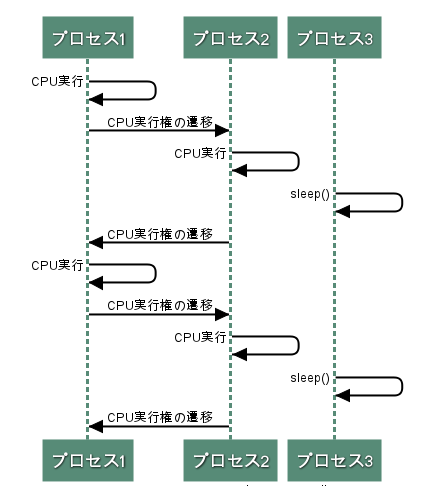
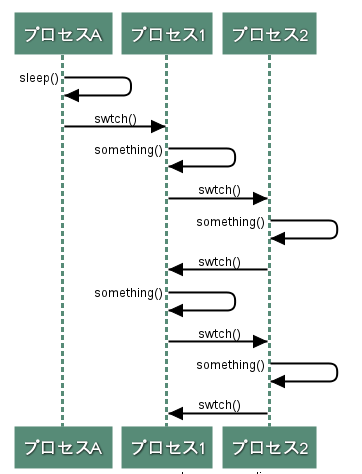
fix

Changed region(s): [[0.0304, 0.0, 0.942, 1.0], [0.6381, 0.6203, 0.6685, 0.6498]]

diff --git a/docs/unix_v6/process/switch_process.md b/docs/unix_v6/process/switch_process.md
@@ -2,6 +2,11 @@
 
 * 実行プロセスがカーネルのsleep()を実行すると`実行プロセスが休眠状態になって処理が中断された後に、swtch()が呼ばれて実行プロセスが切り替わる`
 
+## もっと雑にこういうことやってる
+* sleep()を実行するとプロセスの切り替えが起きている
+  * 自身を休眠状態にしてプロセスを切り替える
+    * 次の実行するプロセスは優先度と実行可能状態の状態のプロセスから選ぶ
+    * プロセスを切り替える時は、コンテキストスイッチ(レジスタとメモリ領域の引っ越し)が起きている
 ![switch](../images/swtch.png)
 
 * カーネルのsleep()が実行されるのは次の場合
@@ -11,11 +16,12 @@
 * 実行状態になれるのは、実行可能状態のプロセスのみ
   * 休眠状態になったプロセスは、休眠状態が解消されるまでは再度実行状態になることはない
 
+### 休眠状態になったプロセスは、休眠状態が解消されるまでは再度実行状態になることはないの図
 
 ![switch](../images/process_status.png)
 
 ## プロセスの状態を表す値
-* プロセスの状態は、proc.p_statで表される
+* プロセスの状態は、`proc.p_stat` で表される
   * SRUNは実行可能状態、SSLEEPはSWAITは休眠状態
 * sleep()は実行中のプロセスをSSLEEPまたはSWAITに設定する
   * wakeup()は対象のプロセスをRUMに設定する
@@ -24,7 +30,7 @@
 * swtch()は、実行するプロセスを選択する
   * proc[]を舐めて、次の条件を満たしたプロセスを実行するプロセスとして選択する
     * 実行可能状態である
-    * 実行優先度が最も高い(proc.p_priが最も小さい)
+    * 実行優先度が最も高い(`proc.p_pri`が最も小さい)
 * 特定のプロセスを必ず実行する、ということはできない
 * 実行時間が長いほど実行優先度が低くなっていく
   * 実行優先度で選択されるプロセスが決まるので、setpri()中の実行優先度計算式が実行プロセスの選択を決定しているといえる
@@ -34,24 +40,29 @@
 * 実行プロセスが中出されるときには、user構造体に現在の実行状態を保存する。
 * 中断していたプロセスが再度実行されるときには、user構造帯から実行状態を復元する
   * これをコンテキストスイッチと呼ぶ
-* アセンブリで搔かれたsavu(),retu(), aretu()がコンテキストスイッチの中核をなす関数
+* アセンブリで搔かれたsavu(), retu(), aretu()がコンテキストスイッチの中核をなす関数
   * savu()がuser構造帯への保存,retu(), aretu()がuser構造帯からの復元を行う
 
 ## waitシステムコール
 * ユーザプログラムからwaitシステムコールが発行されると、そのプロセスの実行が中断され、別のプロセスへと制御が移る
 * waitシステムコールには、子プロセスの処理完了を待つために実行プロセスの中断すること以外にも、終了した子プロセスの後始末を行うという役割がある
+  * 子プロセスがexitするとゾンビ状態になって親がwaitするまでproc[]に存在し続ける. waitするとproc[]から消える
 ```shell
 $ sleep 2 &; wait && echo done
 ```
 
 ## sleep()
-* sleep()は実行中のプロセスを休眠状態にする
-  * その後、swtch()を実行して実行プロセスを切り替える
 * sleep()は引数chan, priを受ける
   * chanには変数などのアドレスが渡され、その値は実行プロセスのproc.p_wchanにセットされます。
   * wchanは waiting channelを意味し、`このプロセスはproc.p_wchanで示される資源を持っている`ということを表す
-* プロセスの状態を休眠状態から実行可能状態へと変更する、wakeup()はsleep()と同様に変数などのアドレスを引数として受け、proc.p_wchanを順に調べ、引数と一致するプロセスを実行可能状態にする
+
+### sleep()のやっていること
+* sleep()は実行中のプロセスを休眠状態にする
+  * その後、swtch()を実行して実行プロセスを切り替える
+* プロセスの状態を休眠状態から実行可能状態へと変更するwakeup()を実行する
+  * wakeup()は、sleep()と同様に変数などのアドレスを引数として受け、proc.p_wchanを順に調べ、引数と一致するプロセスを実行可能状態にする
   * sleep()とwakeup()を使って、複数プロセス間で資源を持ち合う処理を行なっている
+* wakeup()で休眠状態プロセスを起こした(実行可能状態にした)後にswtch()でプロセスを切り替える
 
 #### ken/slp.c
 * priは、実行優先度を表し、実行プロセスのproc.p_priにセットされる
@@ -73,13 +84,13 @@ sleep(chan, pri) { // waiting_chanenel: 持っている資源アドレス, pri: 
   rp = u.u_procp;
 
   if(pri >= 0) {
-    if(issig()) { goto psig; }
+    if(issig()) { goto psig; } // シグナルを受けているならgoto psig
     spl6();             // 下記3項目が書き換えられない(割り込みされない)ように6に引き上げる
     rp->p_wchan = chan; // 割り込み処理中に実行されるwakeup()から書き換えられる可能性がある
-    rp->p_stat = SWAIT; // 同じ休眠状態だけどシグナル処理を行う
+    rp->p_stat = SWAIT; // 同じ休眠状態だけどシグナル処理を行えるSWAIT
     rp->p_pri = pri;
     spl0();
-    if(runin != 0) { // スワップアウト対象がいないことを示すruninフラグ
+    if(runin != 0) { // スワップアウト対象がいないことを示すruninフラグ. いるなら真
       runin = 0;
       wakeup(&runin);
     }
@@ -103,3 +114,145 @@ psig:
 ```
 
 ## swtch()
+* 実行プロセスの切り替えをお子なる関数
+* proc[]を調べて、実行可能状態なプロセスのうち、もっとも実行優先度の高いプロセスを選択する
+  * カーネルの処理では、先頭を順番に見ていって条件にあうproc[]を選択する、というパターンが多いが、swtch()では1周する
+*  次に実行するプロセスを決定したあとは、下記手順でプロセスを切り替える
+  * 選択されたプロセスのuser構造帯をuで参照できるようにカーネルAPRを変更
+  * 選択されたプロセスのuser構造帯に保存されているr5, r6の値を復帰
+  * 選択されたプロセスのuser構造帯に保存されているユーザAPRの値を復帰
+* 「fork()で新たに生成されたプロセスはnewproc()から1を返す」というのもこれにより実現している
+
+![switch](../images/retu_savu.png)
+
+```c
+swtch() {
+  static struct proc *p;
+  register i, n;
+  register struct proc *rp;
+  if(p == NULL) { p = &proc[0] }
+  savu(u.u_rsav); // 今のr5, r6の値を現在実行中(中断しようとしている)プロセスのuser.u_rsavに保存する. プロセスが再び実行されるときに値復帰する
+  retu(proc[0].p_addr); // スケジューラプロセスに切り替える. proc[0]はスケジューラ用のシステムプロセス. システム起動時に生成される
+
+loop:
+  // runrun変数は、実行プロセスよりも実行優先度の高いプロセスが存在することを示すフラグ
+  runrun = 0; // これから最も実行優先度の高いプロセスへ切り替えようとしているのでリセットする
+  rp = p;
+  p = NULL;
+  n = 128; // 優先度を一番低くする(小さいと優先度が高い)
+  i = NPROC;
+  // プロセスをすべて調べて次に実行状態にするプロセスを決める
+  do {
+    rp++;
+    if(rp >= &proc[NPROC]) {
+      rp = &proc[0];
+    }
+    // 実行可能状態 & メモリ中に存在している & 優先度が高い(最も小さいproc.p_pri)
+    if(rp->p_stat == SRUN && (rp->p_flag & SLOAD) != 0) {
+      if(rpp->p_pri < n) {
+        n = rp;
+        n = rp->p_pri;
+      }
+    }
+  } while(--i);
+  // 全プロセスを調べたが見つからなかったら、idel()を実行して実行可能状態プロセスが現れるのを待つ
+  // 割り込みの発生によって、idel()が解除される
+  if(p == NULL) {
+    p = rp;
+    idel();
+    goto loop;
+  }
+  rp = p;
+  curpri = n;       // current priority. グローバル変数. 実行中プロセスの実行優先度を保持している
+  retu(rp->p_addr); // 選択されたプロセスのr5, r6を復帰し, またuでuser構造体を参照できるようにカーネルAPRの値を変更する
+  sureg();          // 選択されたプロセスのuser構造体に保存されているAPRをハードウェアのユーザAPRに復元し、ユーザ空間を切り替える. これでスイッチ完了
+
+  if(rp->p_flag & SSWAP) { // SSWAPがたっていたら
+    rp_>p_flag = &~SSWAP;  // SSWAPフラグをクリアして
+    aretu(u.u_ssav);       // user.u_ssavからr5, r6を復帰する
+                           // SSWAPフラグは、スケジューラ以外によってスワップアウト処理が行われると立てられる
+  }
+  return(1);
+}
+```
+* idel()から割り込みが発生する(idol()から抜ける)ケース
+  * ブロックデバイスの読み込み動作完了により割り込みがかかり、その動作を待っていたプロセスが起こされると実行可能状態のプロセスが現れる
+    * = ディスク入出力?
+  * クロックによる割り込みがかかり、ある時間が来たら実行するように指示されたプロセスが起こされる場合もある
+    * シェルのsleepコマンドはこれかな
+* idol()を抜けたあとは、もう一度優先度の高いプロセスを選ぶ処理を行う
+
+## savu(), retu(), aretu()
+* user\[\]とレジスタへの退避と復元を行なっている処理
+* スタックのスタックがでてきたりアセンブラがよくわからないので略
+
+## setpri()
+* setpri() はプロセスの優先度を更新する
+* 実行タイミングは、クロック割り込みやシグナル処理
+  * 定期的に実行優先度が更新されている
+* proc.p_priは低いほうが優先度が高い
+  * 最高値は127
+* proc.p_cpuがそのプロセスが使用したCPUの累積時間で、そのプロセスの実行中にクロック割り込みがかかるとインクリメントされる
+  * ただし、スワップインするときに0にリセットされる
+* `CPUの使用累積時間が長くなると実行優先度が下がる`
+* proc.p_niceはniceシステムコールによって、ユーザから設定される正の値
+  * 実行優先度を下げるための補正値
+* ただし、スーパーユーザは負の値を設定できる
+
+```c
+setpri(up) { // 実行優先度を更新するproc[]エントリ
+  register *pp, p;
+  pp = up;
+  p = (pp->p_cpu & 0377) / 16;
+  p =+ PUSER + pp->p_nice;
+  if(p > 127) { p = 127 }
+
+  if(p > curpri) { // current priority. 不等号は逆. 次のバージョンで修正されているとのこと
+    runrun++;      // runrun は実行プロセスよりも実行優先度の高いプロセスが存在することを表すフラグ
+ }
+  pp->p_pri = p;
+}
+```
+
+## wakeup()
+* wakeup()はproc[]を順番に調べて、引数で指定された資源を持っている休眠状態のプロセスを起こす関数
+
+```c
+wakeup(chan) {
+  register struct proc *p;
+  register c, i;
+  c = chan;
+  p = &proc[0];
+  i = NPROC;
+  do {
+    if(p->p_wchan == c) {
+      setrun(p);
+    }
+    p++;
+  } while(--i);
+}
+```
+
+* proc[]を先頭から順にたどり、引数で洗えられた値と同じproc.p_wchanを持つプロセスに対して、setrun()を実行して実行可能状態にする
+
+## setrun()
+引数で与えられたプロセスを実行可能状態(SRUN)にする
+
+```c
+setrun(p) { // p: 実行可能状態にするproc[]エントリ
+  register struct proc *rp;
+  rp = p;
+  rp->p_wchan = 0; // スリープしている理由がセットされており、これから実行可能状態になるので理由をリセットする
+  rp->p_stat = SRUN;
+  if(rp->p_pri < curpri) { runrun++; }
+  // runoutフラグはスワップインするプロセスがないことを示す
+  // runoutフラグが立っていて、かつ、起こされたプロセスがスワップアウトされた状態ならばスワップインできるプロセスが現れたかもしれないので
+  // runoutフラグをクリアし、スケジューラを起こす(謎)
+  if(runout != 0 && (rp_>p_flag & SLOAD) == 0) {
+    runout = 0;
+    wakeup(&runout);
+  }
+}
+```
+
+完

diff --git a/docs/unix_v6/block_device/1.md b/docs/unix_v6/block_device/1.md
@@ -1,0 +1,55 @@
+# でロックデバイスサブシステム
+## デバイスの種類
+* ブロックデバイス
+   * 処理単位はブロック単位
+   * 高速
+   * 先頭ブロックから順に0, 1, 2...とアドレスが振られている
+   * 大量データ転送に向いている
+     * カーネルのバッファの使用により、キャッシュ、非同期操作、遅延書き込みなどをサポートする
+     * ブロックでバイス上にファイルシステムが構築される
+   * ディスクデバイス
+* キャラクタデバイス
+  * 処理端は文字
+  * アドレスは振られてなくてデータは使い捨て
+  * キューの先頭からしかアクセスできない(シーケンシャルアクセス)
+  * 低速
+  * 少量データ転送に向いている
+  * ラインプリンタ、制御端末
+
+# デバイスドライバ
+* デバイスドライバは、デバイスの操作を行うプログラム
+  * 1デバイスに対して、1デバイスドライバがあることが普通
+* デバイスドライバは、デバイスドライバテーブルで管理されてる
+
+# クラスとデバイス番号
+
+# スペシャルファイル
+* あるデバイスを使用するためには、そのデバイスに対応するスペシャルファイルを作成する必要があります。
+  * システムの管理者がユーザプログラムの/etc/mknodを実行して、スペシャルファイルを作成します。
+  * スペシャルファイルにはデバイスのクラスとデバイス番号が含まれる
+* スペシャルファイルは/devの下に作成し、そのデバイスを表す文字列とマイナー番号を組み合わせた名前にします
+  * たとえば/dev/rk0 というようにします
+* /etc/mknod が成功すると、指定されたディレクトリにスペシャルファイルが追加され、それに他王したinodeが作成される
+  * inodeにはクラスを表すフラグが立ち、inode.i_addr[0]にはデバイス番号が格納される
+* そのスペシャルファイルに対して、open, read, write, closeシステムコールが実行することで、
+  * システムコールハンドラ内でメジャー番号に対応したデバイスドライバが呼び出され、デバイスの操作が行われる
+* ユーザから見ると通常ファイル操作とデバイス操作のインターフェースが共通になっているので、
+  * たとえばユーザプログラムの出力をファイルからラインプリンタに変えたいときにはopenする対象を切り替えるだけですむ
+  * 通常ファイルとデバイスのインタフェースが統一されているのはUNIX V6特徴
+
+## バッファ
+* ブロックデバイスサブシステムは、バッファを用いてブロックデバイスとデータのやりとりを行う
+* バッファには、デバイス番号とブロック番号で名前をつける
+  * あるブロックに対する操作を行うときには、必要としているバッファすでにないか探し、見つかればそれを使用する
+  * 見つからなければ、新たに未割当バッファを取得し、それに名前をつけて使用する
+* バッファを用いる目的は、大きく2つある
+  * 1つめは、複数のプロセスから同時に同じブロクのアクセスが起きた時に整合性を保つため
+  * 2つめは、よく読み書きするブロックのコピーをメモリ中におくことで性能を改善するためです
+  * キャッシュをつけってブロックデバイスへのアクセス回数を減らせる
+  * ブロックデバイスへのアクセス速度はCPUと比べて遅いのでアクセス回数が減ればシステムの性能改善が見込める
+  * 他にも、必要となるデータを裏でさきにバッファに読み込んでおいたり、バッファにデータ満たされてから初めてブロックデバイスにデータを書き込みに行くなどすると性能改善する
+* バッファは、buf構造体の配列buf[]で管理されている
+
+## b-list と ac-list
+* buf[]はb-listとav-listの二重リンクリストで管理されている
+* なぞ

diff --git a/docs/unix_v6/process/process.md b/docs/unix_v6/process/process.md
@@ -1,3 +1,32 @@
+# 前提知識
+## ハードウェア
+### PSW
+* プロセッサステータスワードという16ビットのレジスタを持つ
+* モード00はカーネルモードを表し、11はユーザモードを表す
+  * システムコールの処理などはプロセッサがユーザモードからカーネルモードに切り替わってから処理を行う
+  * カーネルモードとユーザモードはアドレス空間が独立しているので、それらの間でデータをやりとりするときなどに、現在のモード情報と以前のモード情報が必要になる
+    * PSWはプロセッサが命令を実行するとその結果が自動的に反映される
+
+### 汎用レジスタ
+* PDP-11/40には、r0からr7までの8個の汎用レジスタがある
+  * r6だけはユーザモード用とカーネルモード用に2つある
+  PDWの現在のモードが切り替わるとr6もハードウェア的に切り替わる
+* レジスタ用途
+  * r0, r1
+    * 計算用、関数の戻り値
+  * r2, r3, r4
+    * ローカル処理
+  * r5
+    * フレームポインタ、環境ポインタ
+    * 環境ポインタとも呼ばれる
+  * r6(sp)
+    * スタックポインタ
+    * 各プロセスが持つスタックの先頭を表す
+  * r7(pc)
+    * プログラムカウンタ
+    * プロセッサはr7で示されたメモリアドレスから命令を読み込み、命令を解釈して、その命令を処理する
+      * 処理を行うとr7は次の命令アドレスまで進める
+
 # プロセス
 * 一意のIDをもつ
   * pid

diff --git a/docs/unix_v6/README.md b/docs/unix_v6/README.md
@@ -49,3 +49,9 @@ Frontend->Frontend:build DOM
 子プロセス->親プロセス: exit
 destroy 子プロセス
 ```
+
+## Q&A
+### プログラムカウンタを進めるのは、なぜ'2'ずつ進めるのか
+* UNIX V6で使っているPDP-11というプロセッサが命令やデータを基本的に16ビットの単位で処理をする
+  * プロセッサが扱うデータの単位をワードと呼び、PDP-11/40では1ワード16ビット。
+* 次の命令を実行するために2(バイト)を進めてる(と思う

diff --git a/docs/unix_v6/process/execute.md b/docs/unix_v6/process/execute.md
@@ -1,0 +1,2 @@
+# プログラムの実行
+
